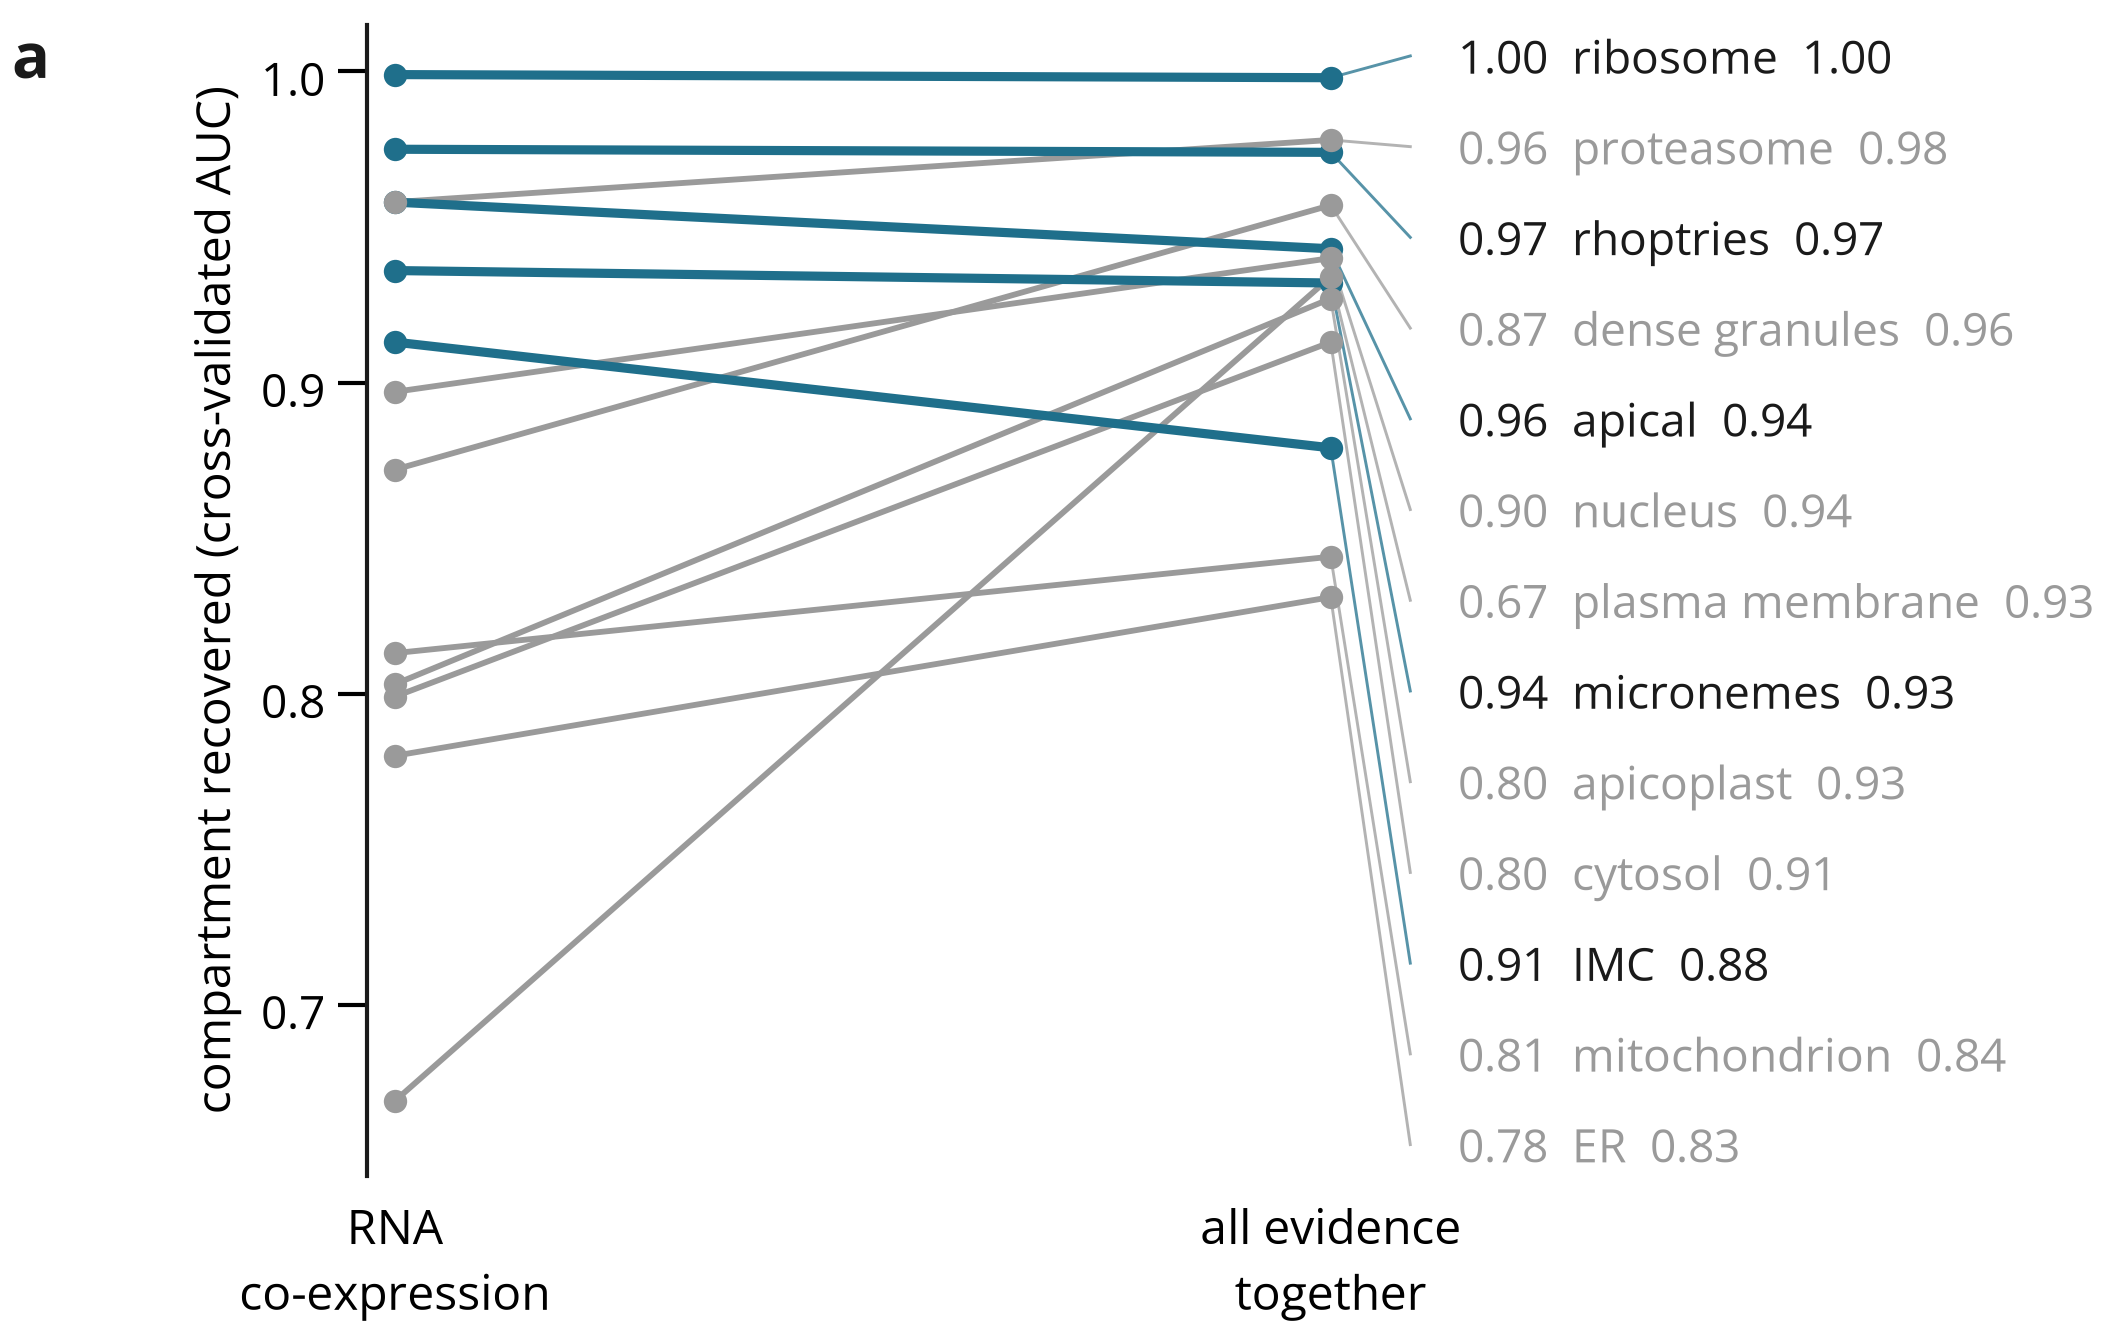
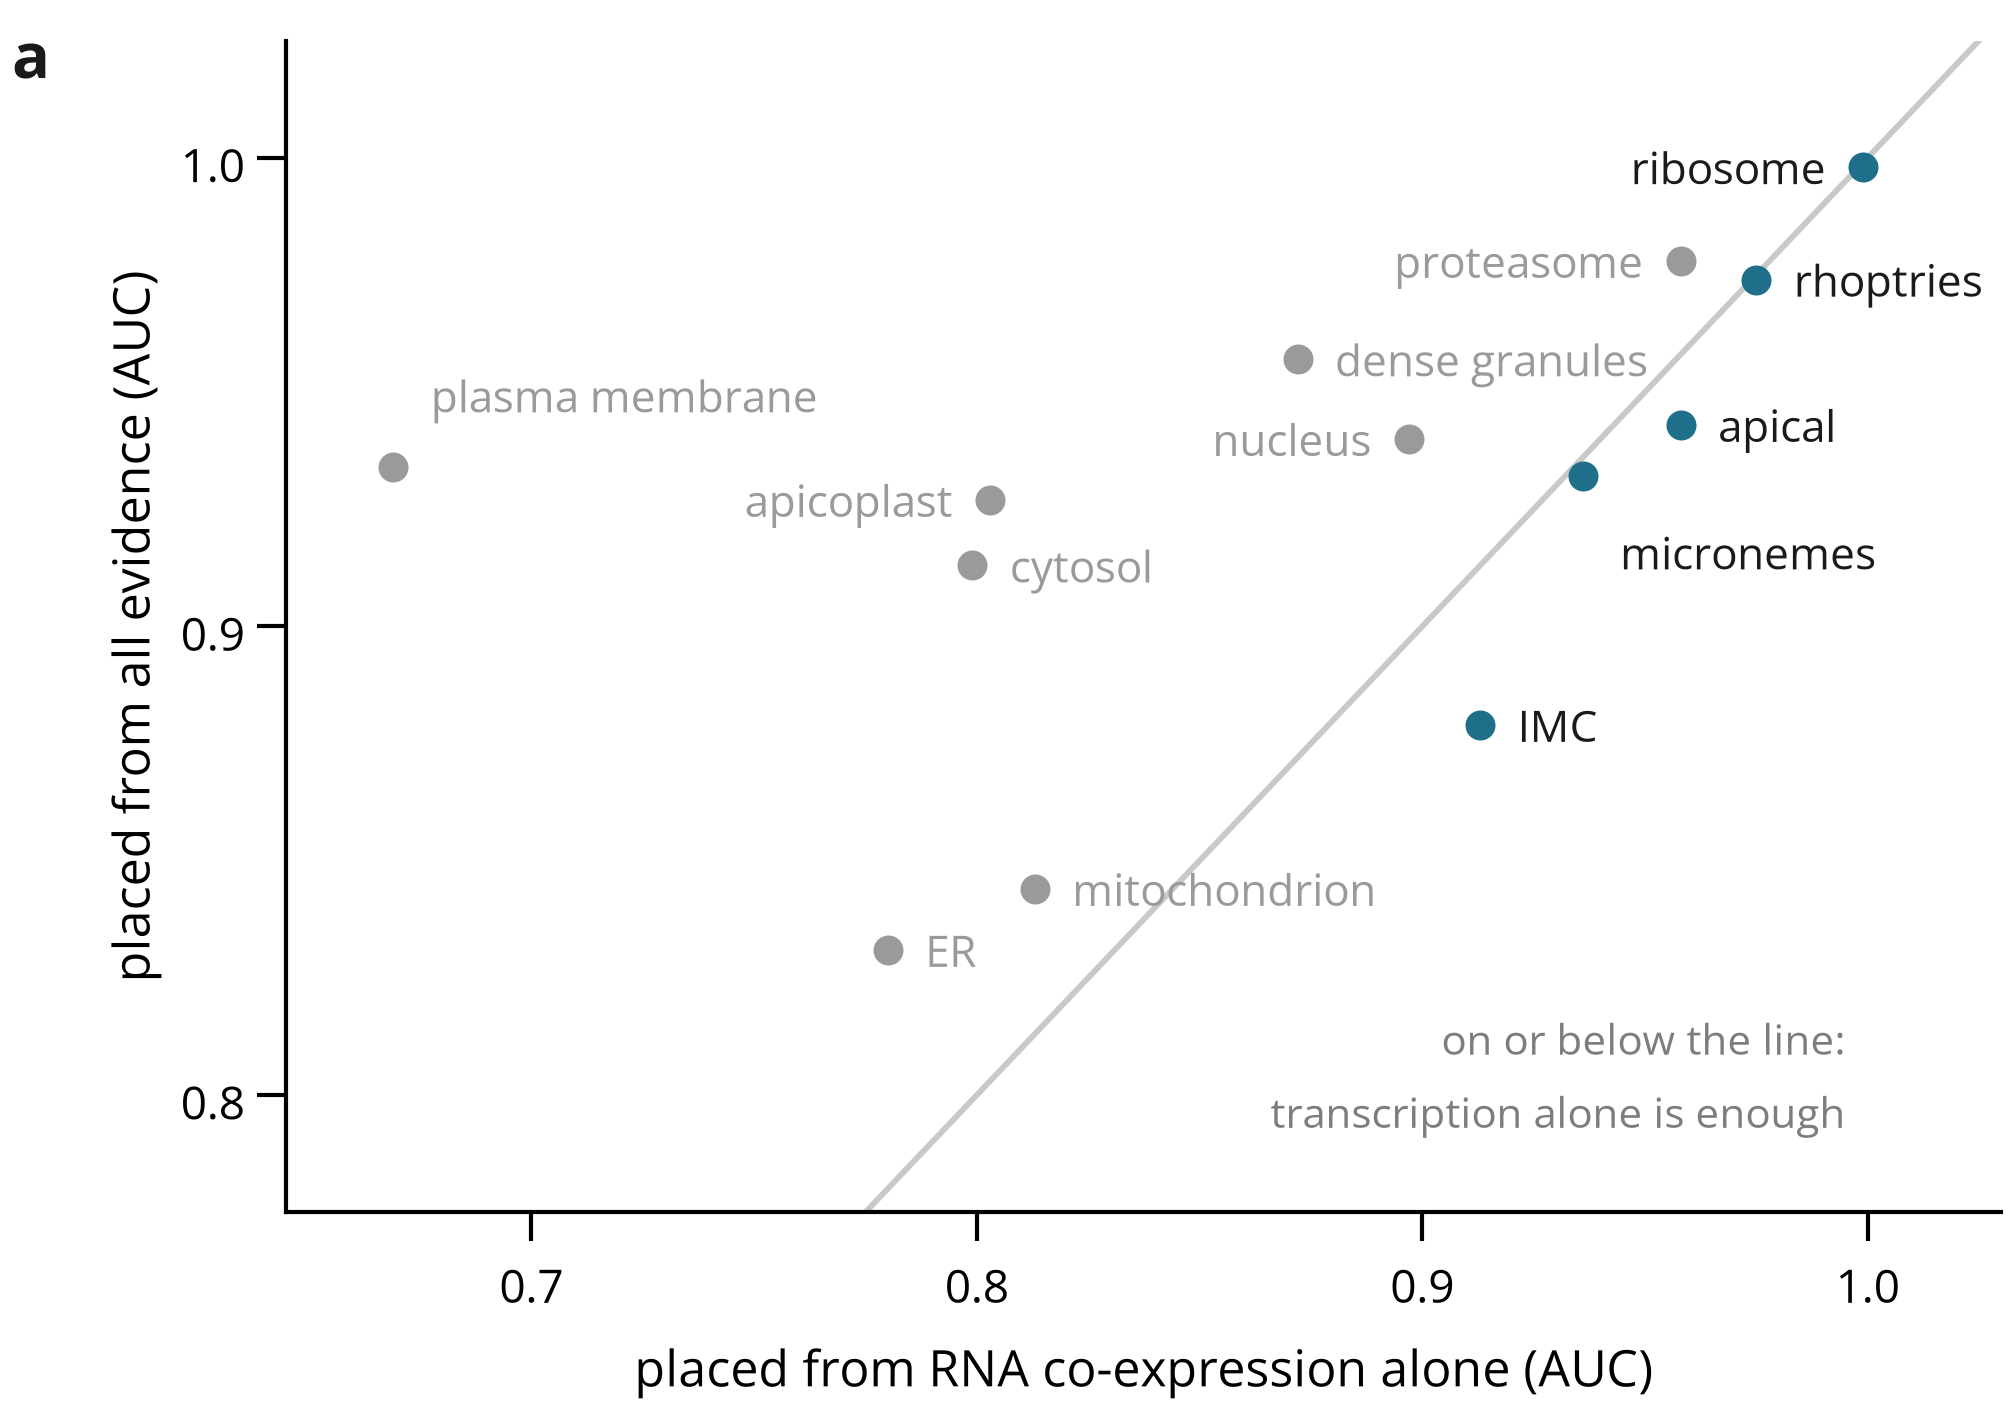
The placement panel becomes a parity scatter, and the perturb-seq study is named
Einar asked whether a heatmap would read better than the slope graph. It would
not, and the reason is in the file: colour cannot separate 0.94 from 0.93, so
the values have to be printed into the cells, and once they are the colour is
decoration on a table in which the crossings -- the claim -- are invisible. A
parity diagonal states it directly: on or below the line, transcription alone is
enough. Four forms were drawn and draw() records why the other three lose.

Labels are now placed by measurement rather than by guessed offsets, against the
candidate positions in turn, rejecting any that overlaps a placed label, covers
a point or leaves the page -- the last of which is how plasma membrane ended up
half off the figure. The box is measured on matplotlib.text.Text, never on the
annotation, which includes the leader and measures several times too large.

hosttx_effectors IS the dual perturb-seq study (PMID 37827122, GSE229505,
Butterworth and Sanchez et al., Cell Host Microbe 2023), and the entry now says
so. The distinction that matters for the host figure is recorded with it: what
is loaded is the per-effector summary, so it answers which effectors change the
host and by how much, and cannot answer which host GENE an effector moves. That
needs the differential-expression table imported per host gene.

diff --git a/scripts/figure_which_evidence_places_a_protein.py b/scripts/figure_which_evidence_places_a_protein.py
@@ -4,10 +4,9 @@ For the ParaScape paper, figure 5 -- which measurement explains which other meas
 is the localisation instance of it: the 13 coarse hyperLOPIT niches recovered from RNA co-expression
 alone, against the same recovery from all allowed evidence together.
 
-WHY A SLOPE GRAPH. The quantity is a PAIRED difference -- the same niche scored two ways -- and the
-thing worth seeing is which niches cross over, where RNA alone matches or beats everything else. A
-bar chart of two series hides the pairing, and a heatmap hides it twice over. Two columns of points
-joined per niche shows the crossing directly, and the four that cross are the claim.
+WHY A PARITY SCATTER. The quantity is a PAIRED comparison and the claim is which compartments do as
+well on transcription alone, so a diagonal of parity reads the answer directly. Three forms were
+drawn before this one was chosen; `draw` records why the other two lose.
 
 Reads `results/coexpression_components_localization_2026_11_06/scores.tsv`, written by the notebook
 of instruction 71 product 1. Nothing is recomputed here: a figure script that re-derives its numbers
@@ -22,12 +21,13 @@ matplotlib.use("Agg")
 import matplotlib.pyplot as plt
 import pandas as pd
 from matplotlib import font_manager
+from matplotlib import text as mtext
 
 #: Where the scored table is, relative to the repository root.
 SOURCE = ("results/coexpression_components_localization_2026_11_06/scores.tsv")
 
 #: Millimetres, because a paper panel is specified in the units the page is in.
-WIDTH_MM, HEIGHT_MM = 105.0, 58.0
+WIDTH_MM, HEIGHT_MM = 88.0, 62.0
 
 #: The two columns compared, in the order they are drawn.
 LEFT, RIGHT = "coexp_cv_auc", "all_evidence_cv_auc"
@@ -61,66 +61,97 @@ def load(root: str) -> pd.DataFrame:
     return frame.sort_values(LEFT, ascending=False).reset_index(drop=True)
 
 
-def _spread(values, low: float, high: float):
-    """Label positions in value order, evenly over the whole height.
+#: Where a label may sit relative to its point, in points, tried in this order.
+CANDIDATES = ((4.5, 0.0, "left", "center"), (-4.5, 0.0, "right", "center"),
+              (4.5, 5.0, "left", "bottom"), (-4.5, 5.0, "right", "bottom"),
+              (4.5, -5.5, "left", "top"), (-4.5, -5.5, "right", "top"),
+              (0.0, 6.5, "center", "bottom"), (0.0, -7.0, "center", "top"))
 
-    Repelling labels locally left them bunched at the top -- most compartments score above 0.9 --
-    with the leader lines crossing each other and the lower half of the panel empty. Spreading them
-    evenly in VALUE ORDER cannot cross: if label i is above label j exactly when point i is above
-    point j, no two leaders can intersect. The same argument as the cluster labels of figure 1.
+
+def _box(text, renderer):
+    """The bounding box of a label, measured on the TEXT and nothing else.
+
+    `Annotation.get_window_extent` includes the leader line, which measures a box several times
+    too large and makes every candidate position look occupied. This is the trap recorded against
+    figure 1 of the bradyzoite paper, and it is why this goes through `matplotlib.text.Text`.
     """
-    order = sorted(range(len(values)), key=lambda i: values[i])
-    step = (high - low) / max(1, len(values) - 1)
-    out = [0.0] * len(values)
-    for rank, i in enumerate(order):
-        out[i] = low + rank * step
-    return out
+    return mtext.Text.get_window_extent(text, renderer=renderer)
+
+
+def _place(ax, fig, points, labels, colours):
+    """Label every point, each in the first candidate position that hits nothing already placed.
+
+    Guessed offsets collided -- apicoplast over cytosol, micronemes over apical -- because an
+    offset that works for one arrangement of points works for no other. Measuring is cheap at
+    thirteen labels and is the only version that stays correct when the numbers change.
+    """
+    renderer = fig.canvas.get_renderer()
+    taken = []
+    for (x, y) in points:
+        taken.append(ax.transData.transform((x, y)))
+    placed_boxes = []
+    for (x, y), name, colour in zip(points, labels, colours):
+        chosen = None
+        for dx, dy, ha, va in CANDIDATES:
+            text = ax.annotate(name, (x, y), xytext=(dx, dy), textcoords="offset points",
+                               fontsize=5.3, color=colour, ha=ha, va=va, annotation_clip=False)
+            fig.canvas.draw()
+            box = _box(text, renderer).expanded(1.06, 1.16)
+            # Inside the page first: the left-hand candidate put "plasma membrane" half off the
+            # figure, which no overlap test would ever have caught.
+            width, height = fig.get_size_inches() * fig.dpi
+            clash = box.x0 < 2 or box.y0 < 2 or box.x1 > width - 2 or box.y1 > height - 2
+            clash = clash or any(box.overlaps(other) for other in placed_boxes)
+            if not clash:
+                clash = any(box.x0 - 1 <= px <= box.x1 + 1 and box.y0 - 1 <= py <= box.y1 + 1
+                            for px, py in taken)
+            if not clash:
+                chosen, placed_boxes = text, placed_boxes + [box]
+                break
+            text.remove()
+        if chosen is None:                       # nowhere clear: put it right and accept it
+            placed_boxes.append(_box(
+                ax.annotate(name, (x, y), xytext=(4.5, 0.0), textcoords="offset points",
+                            fontsize=5.3, color=colour, ha="left", va="center"), renderer))
 
 
 def draw(frame: pd.DataFrame, letter: str = "a"):
-    """The slope graph. Returns the figure.
+    """A parity scatter: each compartment placed from RNA alone against from all evidence.
 
-    One line per niche from RNA-alone to all-evidence. A line that falls is a niche where RNA alone
-    does better, and those are drawn in ink while the rest recede, so the eye lands on the crossing
-    without a legend saying which to look at.
-
-    Names sit at the RIGHT end only. Labelling both ends put the niche names where the y-axis label
-    already was and the two ran through each other; one end also halves the number of collisions to
-    repel. The claim belongs in the legend, not printed under the panel, which is what made the
-    first version taller than it was wide with the text wider than the figure.
+    WHY THIS FORM, after three others were drawn. The quantity is a PAIRED comparison and the claim
+    is which compartments do as well on transcription alone, so a diagonal of parity reads the
+    answer directly -- on or below the line means RNA alone is enough, and the distance from the
+    line is the gain from everything else. A heatmap of the same numbers has to print the values
+    into the cells, because colour cannot separate 0.94 from 0.93, and once they are printed the
+    colour is decoration on a table in which the crossings are invisible. A slope graph keeps the
+    pairing but is a form the reader has to be taught. A ranked difference states the claim most
+    directly and throws away the absolute performance, so it cannot distinguish a compartment that
+    gains nothing because transcription is enough from one that gains nothing because both fail.
     """
     fig = plt.figure(figsize=(WIDTH_MM / 25.4, HEIGHT_MM / 25.4))
-    ax = fig.add_axes([0.155, 0.13, 0.40, 0.84])
-    x = (0.0, 1.0)
-    rights = _spread(list(frame[RIGHT]), 0.655, 1.005)
-    for row, right_y in zip(frame.itertuples(), rights):
-        rna, allev = getattr(row, LEFT), getattr(row, RIGHT)
-        rna_wins = rna >= allev
-        colour = WINS if rna_wins else MUTED
-        ax.plot(x, (rna, allev), "-", color=colour, linewidth=1.1 if rna_wins else 0.7,
-                solid_capstyle="round", zorder=3 if rna_wins else 2)
-        ax.plot(x[0], rna, "o", color=colour, markersize=2.8, markeredgewidth=0, zorder=4)
-        ax.plot(x[1], allev, "o", color=colour, markersize=2.8, markeredgewidth=0, zorder=4)
-        # a hairline from the point to its label where the repeller had to move it
-        ax.plot([1.0, 1.085], [allev, right_y], "-", color=colour, linewidth=0.35,
-                zorder=1, clip_on=False, alpha=0.75)
-        ax.annotate(f"{rna:.2f}  {row.niche}  {allev:.2f}", (1.10, right_y),
-                    xycoords=("axes fraction", "data"), ha="left", va="center",
-                    fontsize=5.5, color=INK if rna_wins else MUTED,
-                    annotation_clip=False)
-
-    ax.set_xlim(-0.03, 1.03)
-    ax.set_xticks(x)
-    ax.set_xticklabels(["RNA\nco-expression", "all evidence\ntogether"], fontsize=5.8)
-    ax.tick_params(axis="x", length=0, pad=2)
-    ax.set_ylabel("compartment recovered (cross-validated AUC)", fontsize=5.8, labelpad=2)
-    ax.set_ylim(0.645, 1.015)
-    ax.set_yticks([0.7, 0.8, 0.9, 1.0])
-    ax.tick_params(axis="y", labelsize=5.5, pad=1.5)
-    for side in ("top", "right", "bottom"):
+    ax = fig.add_axes([0.145, 0.165, 0.825, 0.80])
+    lo, hi = 0.645, 1.03
+    ax.plot([lo, hi], [lo, hi], "-", color="#c9c9c9", linewidth=0.7, zorder=1)
+    wins = (frame[LEFT] >= frame[RIGHT]).to_numpy()
+    for (x, y), won in zip(zip(frame[LEFT], frame[RIGHT]), wins):
+        ax.plot(x, y, "o", color=WINS if won else MUTED, markersize=3.6,
+                markeredgewidth=0, zorder=3)
+    ax.set_xlim(lo, hi)
+    ax.set_ylim(0.775, 1.025)
+    ax.set_xlabel("placed from RNA co-expression alone (AUC)", fontsize=6.0, labelpad=2)
+    ax.set_ylabel("placed from all evidence (AUC)", fontsize=6.0, labelpad=2)
+    ax.tick_params(labelsize=5.5, pad=1.5)
+    ax.set_xticks([0.7, 0.8, 0.9, 1.0])
+    ax.set_yticks([0.8, 0.9, 1.0])
+    for side in ("top", "right"):
         ax.spines[side].set_visible(False)
-    ax.spines["left"].set_color(INK)
-    fig.text(0.012, 0.98, letter, fontsize=7.5, fontweight="bold", color=INK,
+    # Horizontal, in the empty corner. Rotated along the diagonal it ran through the data, which
+    # is the one place on this panel a note must never be.
+    ax.annotate("on or below the line:\ntranscription alone is enough", (0.995, 0.787),
+                fontsize=5.1, color="#7d7d7d", ha="right", va="bottom", linespacing=1.35)
+    _place(ax, fig, list(zip(frame[LEFT], frame[RIGHT])), list(frame.niche),
+           [INK if w else MUTED for w in wins])
+    fig.text(0.013, 0.985, letter, fontsize=7.5, fontweight="bold", color=INK,
              ha="left", va="top")
     return fig
 

diff --git a/parascape/datasets.py b/parascape/datasets.py
@@ -629,14 +629,21 @@ REGISTRY = [
     Dataset("hosttx_effectors", "Host-transcription effector screen", "DNA", "CRISPR_screen",
             "Hotelling T2 plus full per-effector host-response signature",
             ("hosttx_T2", "hosttx_padj") + HOST_SIGNATURE_COLUMNS, "252 screened / 22 full signatures",
-            pmid="37827122",
-            citation="High-throughput identification of Toxoplasma gondii effector proteins that "
-                     "target host cell transcription",
+            pmid="37827122", accession="GSE229505",
+            citation="Butterworth S, Sanchez L et al., High-throughput identification of "
+                     "Toxoplasma gondii effector proteins that target host cell transcription. "
+                     "Cell Host Microbe 2023;31:1748-1762.e8",
             url=EPMC.format(pmcid="PMC12033024"),
             path="datasets/DNA/CRISPR_screen/37827122/",
-            note="The 737,726-row host differential-expression table is represented by 20 PCA "
+            note="THIS IS THE DUAL PERTURB-SEQ STUDY: pooled CRISPR knockout of parasite effectors "
+                 "read out by single-cell RNA-seq of BOTH the parasite and the infected host cell. "
+                 "What is loaded is the per-effector SUMMARY, not the single-cell matrix: the "
+                 "737,726-row host differential-expression table is represented by 20 PCA "
                  "coordinates, its L2 norm and substantial-DE count; PCA is a dimensional summary, "
-                 "not a host-gene measurement.", organism=organisms.TOXOPLASMA),
+                 "not a host-gene measurement. So this answers which effectors change the host and "
+                 "how much, and cannot answer WHICH host gene any effector moves -- that needs the "
+                 "differential-expression table imported per host gene, from GSE229505.",
+            organism=organisms.TOXOPLASMA),
 
     Dataset("bioid_corpus_membership", "BioID/TurboID supplement membership corpus",
             "post_translation", "proximity_labelling",
